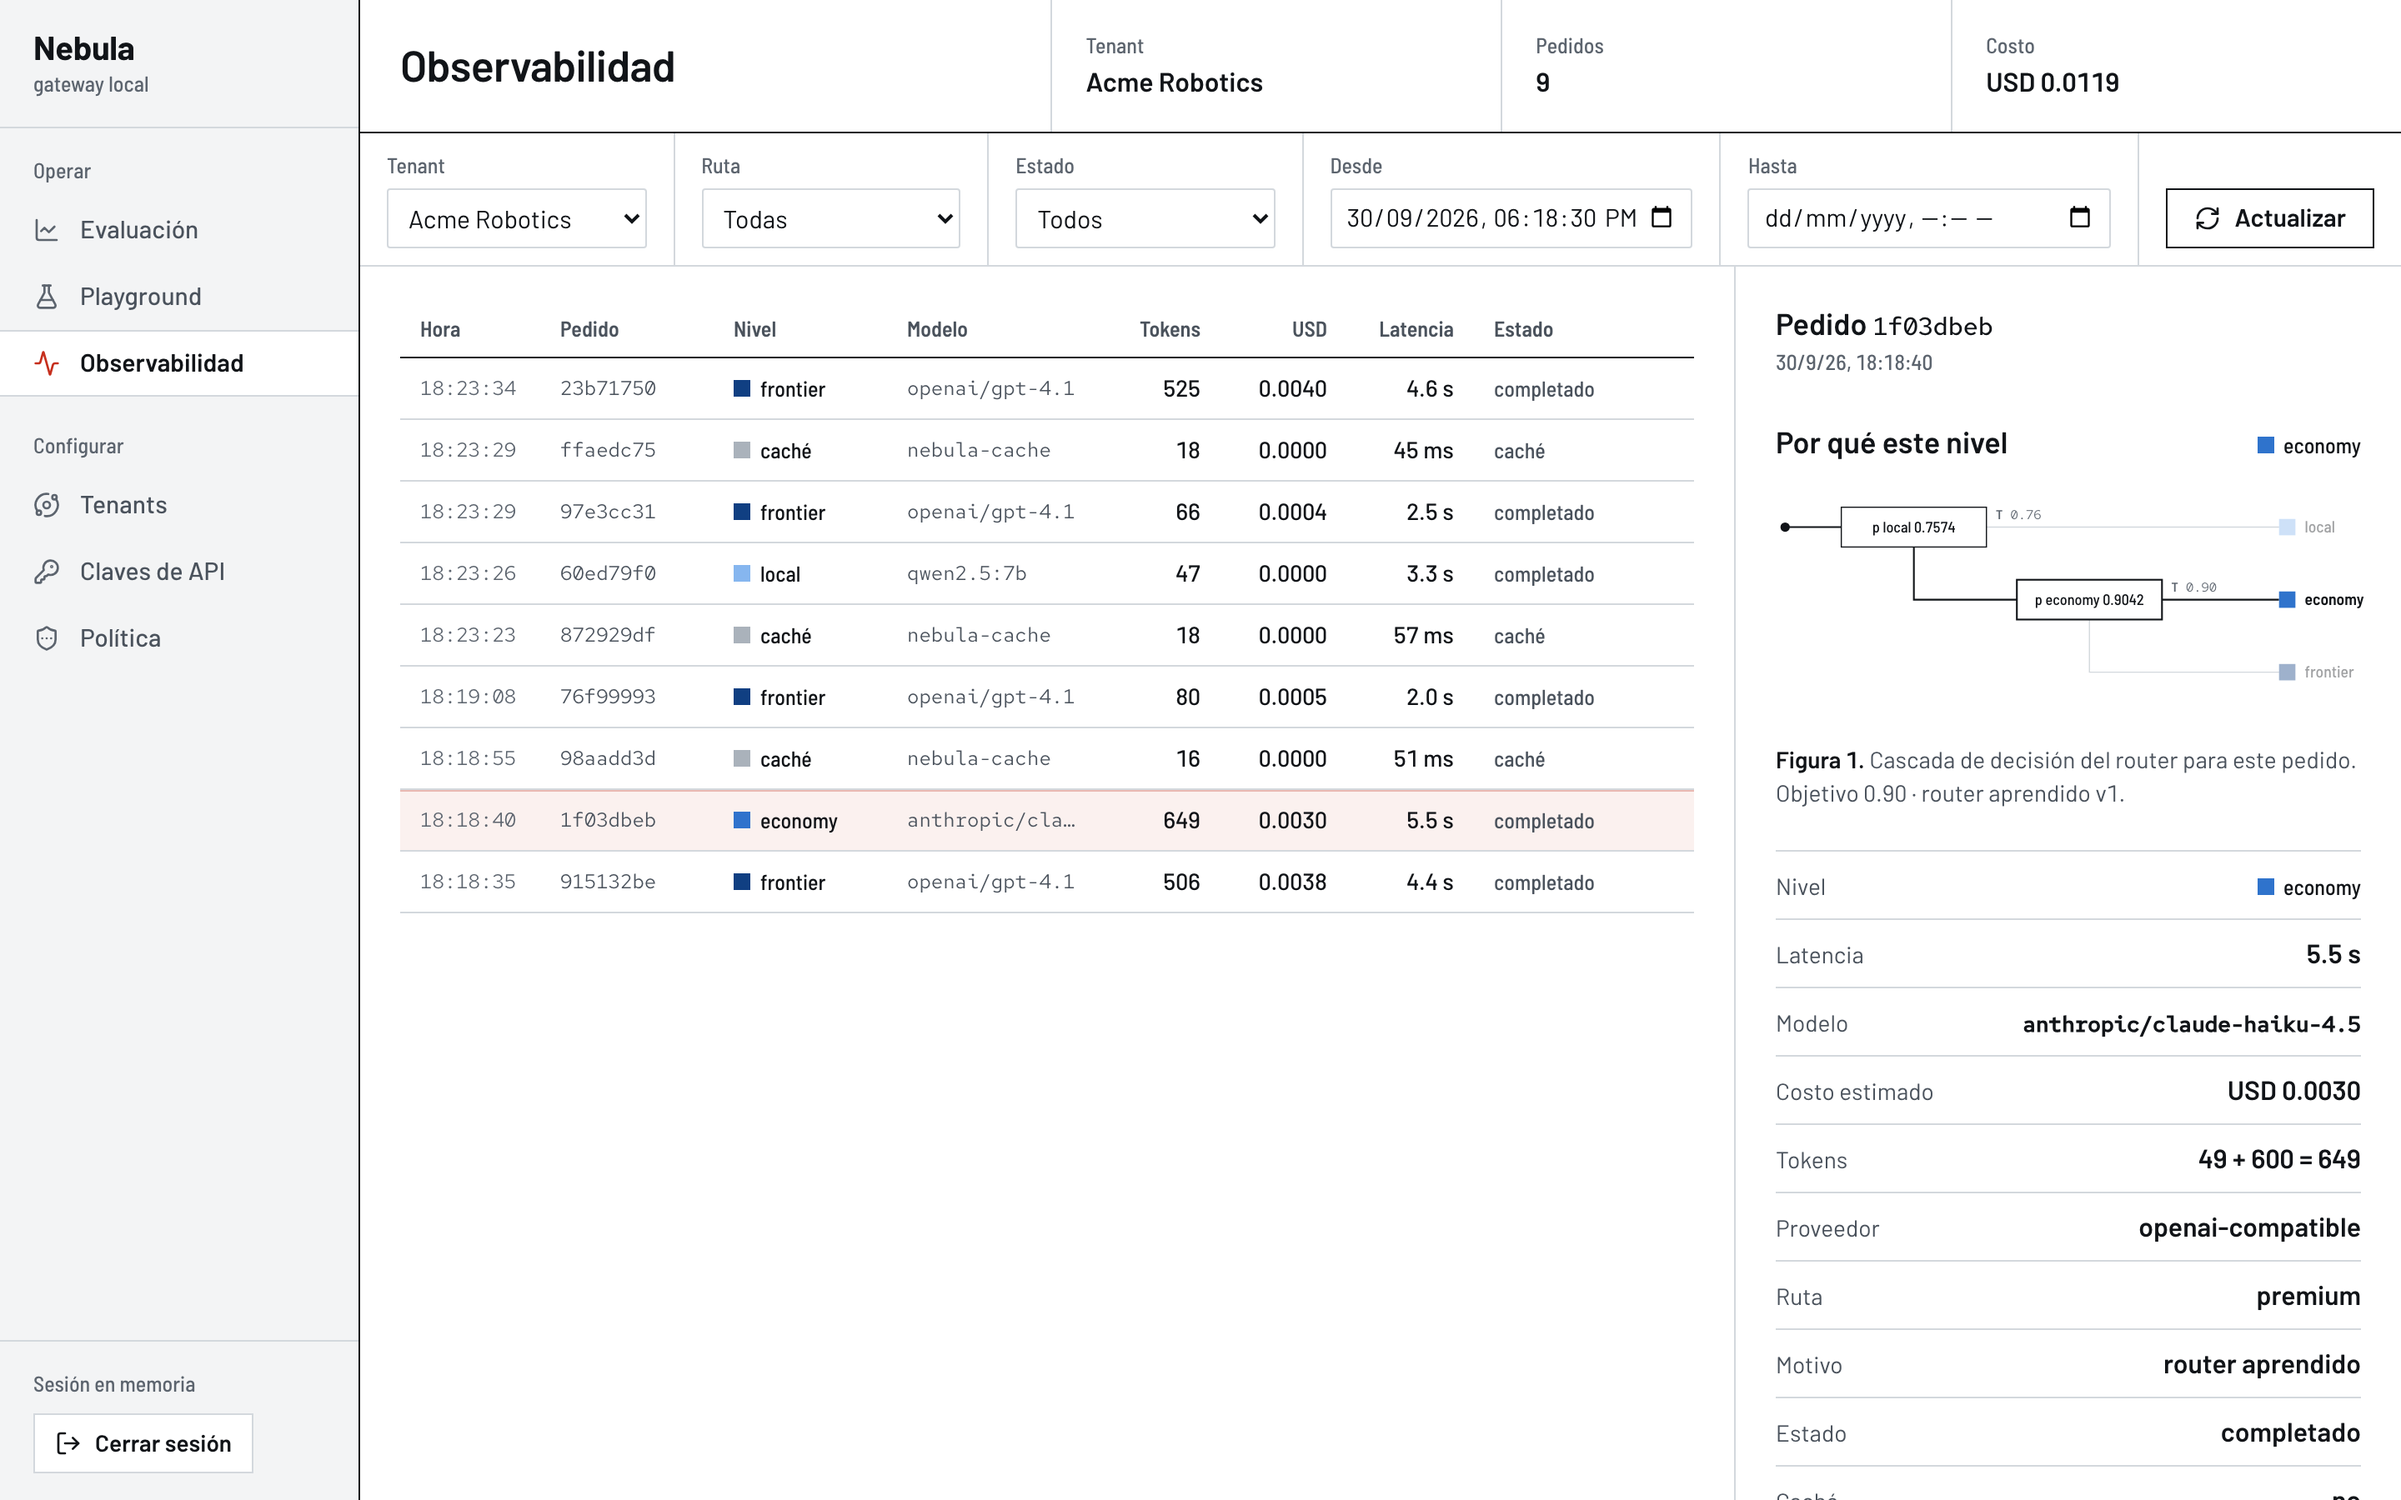
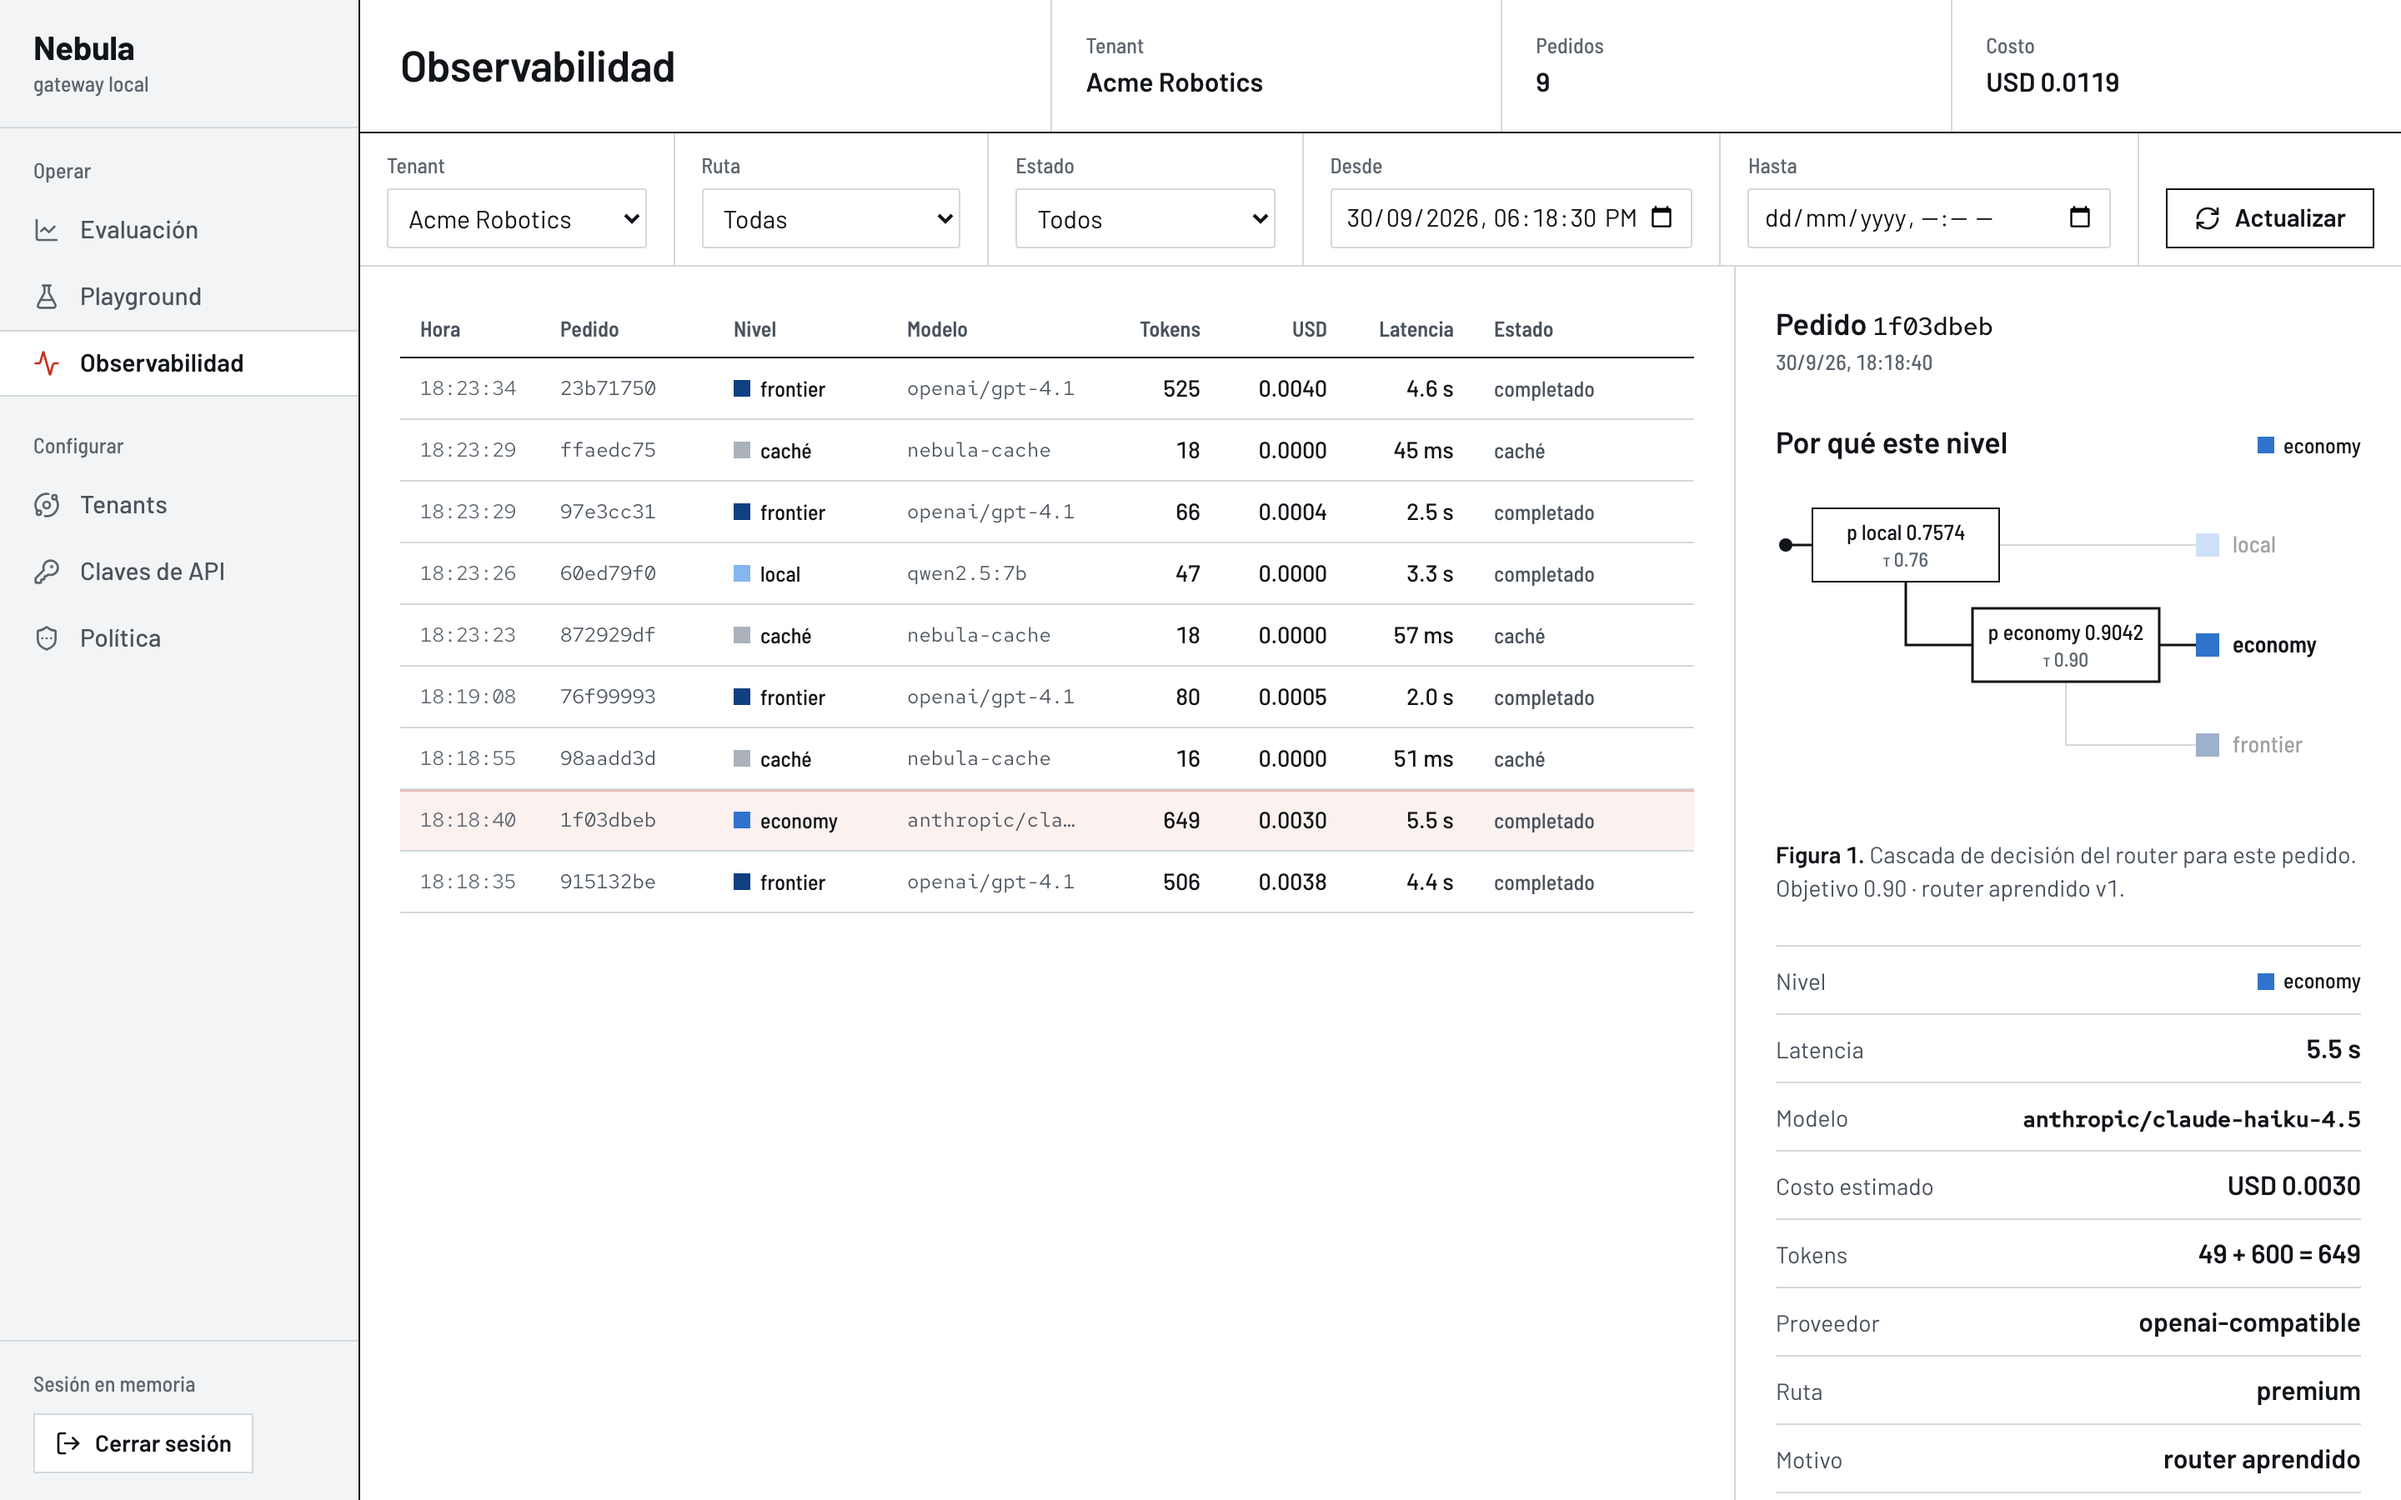
fix(console): decision path legible in the ledger detail column
A compact layout drawn 1:1 puts each threshold inside its box, and τ is set in the
sans label face (the mono subset lacks Greek). Figure 11.1 retaken.

Claude-Session: https://claude.ai/code/session_012JwPQqsnEebt9XQ2BG378E

Changed region(s): [[0.7188, 0.56, 1.0, 1.0], [0.75, 0.3422, 0.9688, 0.4667], [0.75, 0.4667, 0.9688, 0.5289]]

diff --git a/console/src/components/system/decision-path.tsx b/console/src/components/system/decision-path.tsx
@@ -14,6 +14,8 @@ type DecisionPathProps = {
   chosen: DecisionTier;
   /** Trace the path on mount (skipped under prefers-reduced-motion). */
   animate?: boolean;
+  /** Drawn at its own size for a narrow panel, so the labels stay legible. */
+  compact?: boolean;
   className?: string;
 };
 
@@ -71,38 +73,45 @@ function usePrefersReducedMotion() {
   return reduced;
 }
 
-const BOX_W = 124;
-const BOX_H = 34;
-const ROW = 62;
-const START_X = 8;
-const BOX_X0 = 56;
-const STEP_X = 150;
-const END_X = 430;
-const WIDTH = 500;
+type Geometry = {
+  boxW: number;
+  boxH: number;
+  row: number;
+  startX: number;
+  boxX0: number;
+  stepX: number;
+  endX: number;
+  width: number;
+};
+
+/** Wide: scaled to fill a column. Compact: drawn 1:1 for a ~350 px panel, τ inside each box. */
+const WIDE: Geometry = { boxW: 124, boxH: 34, row: 62, startX: 8, boxX0: 56, stepX: 150, endX: 430, width: 500 };
+const COMPACT: Geometry = { boxW: 112, boxH: 44, row: 60, startX: 6, boxX0: 22, stepX: 96, endX: 252, width: 336 };
 const TIERS = ["local", "economy", "frontier"] as const;
 
 /**
  * The router cascade drawn as a signal path: every tier is on the sheet, the evaluated
  * steps show their probability and threshold, and only the branch that won is inked.
  */
-export function DecisionPath({ steps, chosen, animate = false, className }: DecisionPathProps) {
+export function DecisionPath({ steps, chosen, animate = false, compact = false, className }: DecisionPathProps) {
+  const g = compact ? COMPACT : WIDE;
   const reduced = usePrefersReducedMotion();
   const trace = animate && !reduced;
   const winnerIndex = steps.findIndex((s) => s.tier === chosen && clears(s));
   // The row where the path leaves toward its terminal: the winning step, or frontier.
   const exitRow = winnerIndex >= 0 ? winnerIndex : Math.max(steps.length, 2);
-  const height = 24 + 3 * ROW;
-  const cy = (row: number) => 36 + row * ROW;
-  const boxX = (i: number) => BOX_X0 + i * STEP_X;
+  const height = 24 + 3 * g.row;
+  const cy = (row: number) => 36 + row * g.row;
+  const boxX = (i: number) => g.boxX0 + i * g.stepX;
   const chosenRow = TIERS.indexOf(chosen as (typeof TIERS)[number]);
 
-  const ink: string[] = [`M${START_X} ${cy(0)} H${boxX(0)}`];
+  const ink: string[] = [`M${g.startX} ${cy(0)} H${boxX(0)}`];
   const faint: string[] = [];
   for (let i = 0; i < 2; i += 1) {
     const x = boxX(i);
-    const into = i + 1 < 2 ? boxX(i + 1) : END_X;
-    const drop = `M${x + BOX_W / 2} ${cy(i) + BOX_H / 2} V${cy(i + 1)} H${into}`;
-    const across = `M${x + BOX_W} ${cy(i)} H${END_X}`;
+    const into = i + 1 < 2 ? boxX(i + 1) : g.endX;
+    const drop = `M${x + g.boxW / 2} ${cy(i) + g.boxH / 2} V${cy(i + 1)} H${into}`;
+    const across = `M${x + g.boxW} ${cy(i)} H${g.endX}`;
     if (i < exitRow) {
       ink.push(drop);
       faint.push(across);
@@ -117,11 +126,12 @@ export function DecisionPath({ steps, chosen, animate = false, className }: Deci
     <svg
       role="img"
       aria-label={describe(steps, chosen, exitRow)}
-      viewBox={`0 0 ${WIDTH} ${height}`}
-      className={cn("block h-auto w-full max-w-[600px] overflow-visible", className)}
+      viewBox={`0 0 ${g.width} ${height}`}
+      width={compact ? g.width : undefined}
+      className={cn("block h-auto overflow-visible", compact ? "max-w-full" : "w-full max-w-[600px]", className)}
     >
       <path d={faint.join(" ")} fill="none" strokeWidth={1} className="stroke-line" />
-      <circle cx={START_X} cy={cy(0)} r={4} className="fill-ink" />
+      <circle cx={g.startX} cy={cy(0)} r={4} className="fill-ink" />
       {steps.slice(0, 2).map((step, i) => {
         const x = boxX(i);
         const evaluated = i <= exitRow;
@@ -131,16 +141,21 @@ export function DecisionPath({ steps, chosen, animate = false, className }: Deci
           <g key={step.tier} data-stage={step.tier} data-evaluated={String(evaluated)} className={evaluated ? "" : "opacity-40"}>
             <rect
               x={x}
-              y={cy(i) - BOX_H / 2}
-              width={BOX_W}
-              height={BOX_H}
+              y={cy(i) - g.boxH / 2}
+              width={g.boxW}
+              height={g.boxH}
               className={cn("fill-surface", won ? "stroke-ink" : "stroke-line-strong")}
               strokeWidth={won ? 1.5 : 1}
             />
-            <text x={x + BOX_W / 2} y={cy(i) + 4.5} textAnchor="middle" className="fill-ink font-label text-[13px]">
+            <text x={x + g.boxW / 2} y={compact ? cy(i) - 3 : cy(i) + 4.5} textAnchor="middle" className="fill-ink font-label text-[13px]">
               {step.p === null ? `p ${step.tier} sin dato` : `p ${step.tier} ${fmt(step.p)}`}
             </text>
-            <text x={x + BOX_W + 8} y={cy(i) - 7} className="fill-ink-3 font-mono text-[11px]">
+            <text
+              x={compact ? x + g.boxW / 2 : x + g.boxW + 8}
+              y={compact ? cy(i) + 13 : cy(i) - 7}
+              textAnchor={compact ? "middle" : undefined}
+              className="fill-ink-3 font-label text-[12px]"
+            >
               {`τ ${tau}`}
             </text>
           </g>
@@ -158,8 +173,8 @@ export function DecisionPath({ steps, chosen, animate = false, className }: Deci
             data-chosen={isChosen ? "true" : undefined}
             className={isChosen ? "" : "opacity-40"}
           >
-            <rect x={END_X} y={cy(row) - 7} width={14} height={14} className={isChosen ? (SWATCH[chosen] ?? "fill-ink") : (SWATCH[tier] ?? "fill-line")} />
-            <text x={END_X + 22} y={cy(row) + 4.5} className={cn("fill-ink font-label text-[14px]", isChosen ? "font-semibold" : "")}>
+            <rect x={g.endX} y={cy(row) - 7} width={14} height={14} className={isChosen ? (SWATCH[chosen] ?? "fill-ink") : (SWATCH[tier] ?? "fill-line")} />
+            <text x={g.endX + 22} y={cy(row) + 4.5} className={cn("fill-ink font-label text-[14px]", isChosen ? "font-semibold" : "")}>
               {isChosen ? tierLabel(chosen) : tier}
             </text>
           </g>

diff --git a/console/src/components/system/decision-path.test.tsx b/console/src/components/system/decision-path.test.tsx
@@ -99,4 +99,42 @@ describe("DecisionPath", () => {
     expect(img.querySelector('[data-stage="frontier"]')).toHaveAttribute("data-evaluated", "false");
     expect(img.querySelector("[data-chosen=true]")).toHaveTextContent("local");
   });
+
+  it("draws the τ labels in the sans label face, not the mono one that lacks Greek", () => {
+    render(<DecisionPath steps={[{ tier: "local", p: 0.41, tau: 0.82 }, { tier: "economy", p: 0.95, tau: 0.92 }]} chosen="economy" />);
+    const taus = [...screen.getByRole("img").querySelectorAll("text")].filter((t) => t.textContent?.startsWith("τ"));
+    expect(taus).toHaveLength(2);
+    for (const tau of taus) {
+      expect(tau).toHaveClass("font-label");
+      expect(tau).not.toHaveClass("font-mono");
+    }
+  });
+
+  it("renders the compact layout at its drawn size, with each threshold inside its box", () => {
+    render(
+      <DecisionPath
+        compact
+        steps={[
+          { tier: "local", p: 0.41, tau: 0.82 },
+          { tier: "economy", p: 0.95, tau: 0.92 },
+        ]}
+        chosen="economy"
+      />,
+    );
+    const img = screen.getByRole("img");
+    const [, , viewWidth] = (img.getAttribute("viewBox") ?? "").split(" ").map(Number);
+    expect(Number(img.getAttribute("width"))).toBe(viewWidth);
+    expect(viewWidth).toBeLessThanOrEqual(352);
+    for (const tier of ["local", "economy"]) {
+      const stage = img.querySelector(`[data-stage="${tier}"]`)!;
+      const box = stage.querySelector("rect")!;
+      const tau = [...stage.querySelectorAll("text")].find((t) => t.textContent?.startsWith("τ"))!;
+      const left = Number(box.getAttribute("x"));
+      const x = Number(tau.getAttribute("x"));
+      expect(x).toBeGreaterThan(left);
+      expect(x).toBeLessThan(left + Number(box.getAttribute("width")));
+    }
+    expect(img).toHaveAccessibleName("Decisión: local descartado (0.41 < 0.82), economy elegido (0.95 ≥ 0.92)");
+  });
 });
+

diff --git a/console/src/components/playground/playground-decision.tsx b/console/src/components/playground/playground-decision.tsx
@@ -9,6 +9,8 @@ type PlaygroundDecisionProps = {
   routeTier: string;
   /** Figure number for the decision path caption on the page that shows it. */
   figureNumber?: number;
+  /** Narrow column (the ledger detail): draw the path in its compact layout. */
+  compact?: boolean;
 };
 
 type Signals = Record<string, unknown>;
@@ -137,7 +139,7 @@ export function explainDecision(entry: UsageLedgerRecord, routeTier: string): Ex
   return { kind: "learned", tier, computed, version, steps, path, context, note, fallback };
 }
 
-export function PlaygroundDecision({ entry, routeTier, figureNumber = 1 }: PlaygroundDecisionProps) {
+export function PlaygroundDecision({ entry, routeTier, figureNumber = 1, compact = false }: PlaygroundDecisionProps) {
   const explanation = explainDecision(entry, routeTier);
 
   return (
@@ -158,7 +160,7 @@ export function PlaygroundDecision({ entry, routeTier, figureNumber = 1 }: Playg
       ) : explanation.kind === "learned" ? (
         <>
           <Figure number={figureNumber} caption={`Cascada de decisión del router para este pedido. ${explanation.context}.`}>
-            <DecisionPath steps={explanation.path} chosen={explanation.computed} animate />
+            <DecisionPath steps={explanation.path} chosen={explanation.computed} animate compact={compact} />
           </Figure>
           {explanation.note ? <p className="m-0 text-sm text-warn">{explanation.note}</p> : null}
           {explanation.fallback ? (

diff --git a/console/src/components/ledger/ledger-request-detail.test.tsx b/console/src/components/ledger/ledger-request-detail.test.tsx
@@ -124,6 +124,8 @@ describe("ledger-request-detail", () => {
     );
     expect(screen.getByRole("heading", { name: "Por qué este nivel" })).toBeInTheDocument();
     expect(screen.getByRole("img", { name: /economy elegido \(0\.95 ≥ 0\.92\)/ })).toBeInTheDocument();
+    // The detail column is narrow: the path is drawn 1:1 so its labels stay legible.
+    expect(screen.getByRole("img", { name: /economy elegido/ })).toHaveAttribute("width");
   });
 
   it("renders the heuristic inspection with its additive score", () => {

diff --git a/console/src/components/ledger/ledger-request-detail.tsx b/console/src/components/ledger/ledger-request-detail.tsx
@@ -185,7 +185,7 @@ export function LedgerRequestDetail({ entry }: LedgerRequestDetailProps) {
       </div>
 
       {signals || entry.route_reason === "cache_hit" ? (
-        <PlaygroundDecision entry={entry} routeTier={typeof signals?.tier === "string" ? signals.tier : ""} figureNumber={1} />
+        <PlaygroundDecision entry={entry} routeTier={typeof signals?.tier === "string" ? signals.tier : ""} figureNumber={1} compact />
       ) : null}
 
       <Readout items={ledgerReadout(entry)} />
